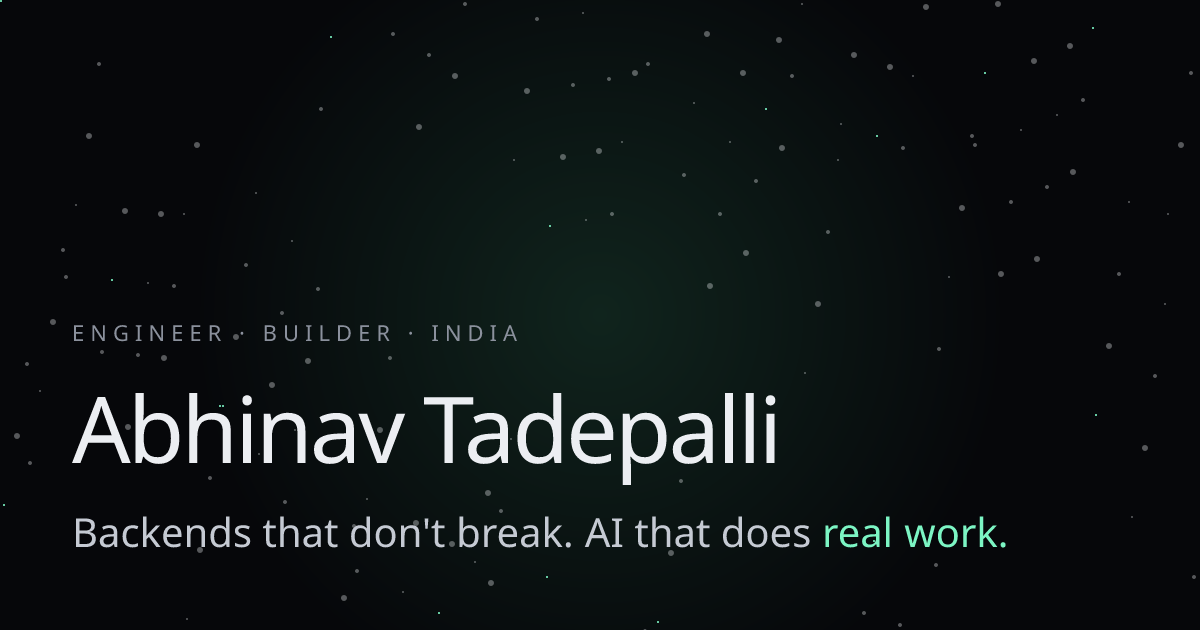
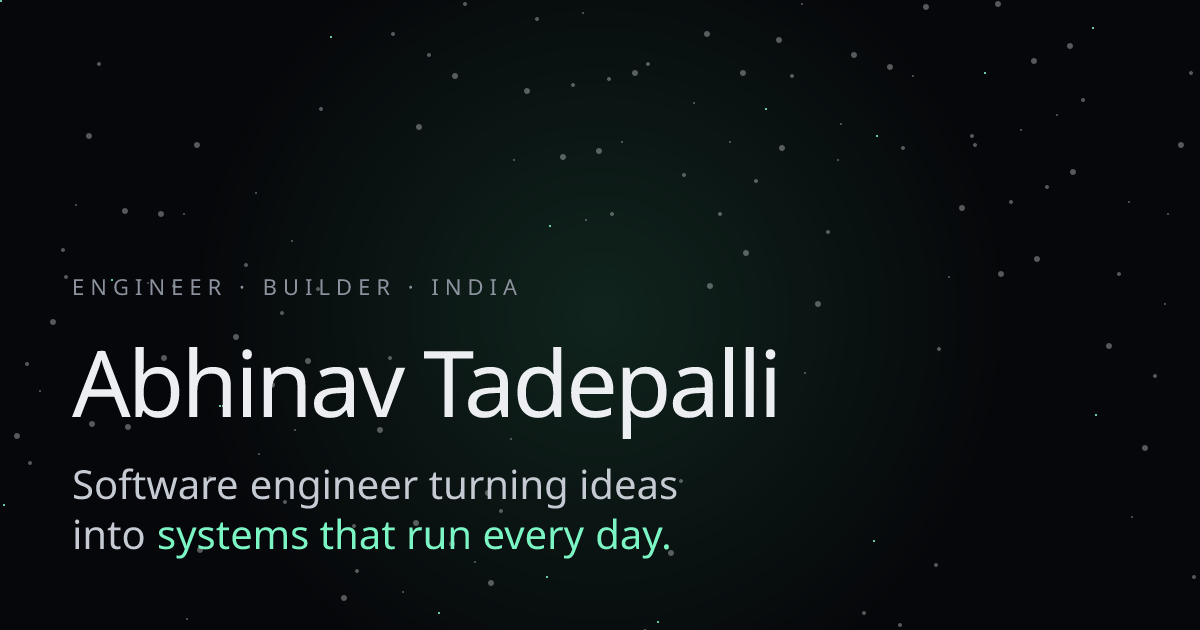
New hero line; add Aliveo AI to RAG

diff --git a/src/components/Sections.tsx b/src/components/Sections.tsx
@@ -40,15 +40,12 @@ export function Hero() {
             initial={{ opacity: 0, y: 24 }}
             animate={{ opacity: 1, y: 0 }}
             transition={{ delay: 1.4, duration: 1, ease: [0.22, 1, 0.36, 1] }}
-            className="mt-5 font-display text-4xl font-medium leading-[1.05] tracking-tight md:text-6xl"
+            className="mt-5 font-display text-[2.1rem] font-medium leading-[1.08] tracking-tight md:text-5xl"
           >
+            <span className="md:whitespace-nowrap">Software engineer turning ideas</span>{" "}
+            <br className="hidden md:block" />
             <span className="md:whitespace-nowrap">
-              Backends that <br className="md:hidden" />
-              don&apos;t break.
-            </span>
-            <br />
-            <span className="md:whitespace-nowrap">
-              AI that does <span className="font-serif font-normal italic text-accent">real work.</span>
+              into <span className="font-serif font-normal italic text-accent">systems that run every day.</span>
             </span>
           </motion.p>
         </div>

diff --git a/src/data/content.ts b/src/data/content.ts
@@ -6,7 +6,6 @@ export const profile = {
   first: "Abhinav",
   last: "Tadepalli",
   role: "Software Engineer · Backend / Full-Stack",
-  tagline: "I build backend systems and AI agents that businesses rely on.",
   location: "India · Remote",
   email: "abhinav140902@gmail.com",
   github: "https://github.com/Abhinav140902",
@@ -208,7 +207,7 @@ export const skills: Skill[] = [
   { name: "OpenAI", group: "AI / LLM", usedAt: ["Aliveo AI", "WhatsApp SaaS"] },
   { name: "Gemini", group: "AI / LLM", usedAt: ["WhatsApp SaaS"] },
   { name: "LangChain", group: "AI / LLM" },
-  { name: "RAG", group: "AI / LLM", usedAt: ["Matrack", "WhatsApp SaaS"] },
+  { name: "RAG", group: "AI / LLM", usedAt: ["Aliveo AI", "Matrack", "WhatsApp SaaS"] },
   { name: "Prompt Engineering", group: "AI / LLM", usedAt: ["Aliveo AI", "Matrack", "WhatsApp SaaS"] },
   { name: "AWS", group: "Cloud", usedAt: ["Aliveo AI", "Matrack"] },
   { name: "Docker", group: "Cloud", usedAt: ["Aliveo AI", "WhatsApp SaaS"] },

diff --git a/src/app/layout.tsx b/src/app/layout.tsx
@@ -20,7 +20,7 @@ export const metadata: Metadata = {
     "Software engineer building backend systems and production AI agents. Experience at Aliveo AI and Matrack, plus SaaS and ERP projects.",
   openGraph: {
     title: "Abhinav Tadepalli · Backend & AI Engineer",
-    description: "Backends that don't break. AI that does real work.",
+    description: "Software engineer turning ideas into systems that run every day.",
     type: "website",
   },
 };
